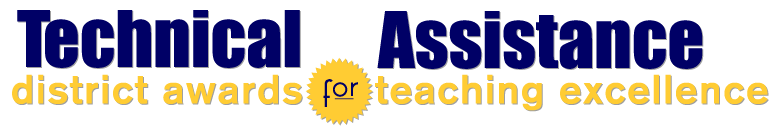
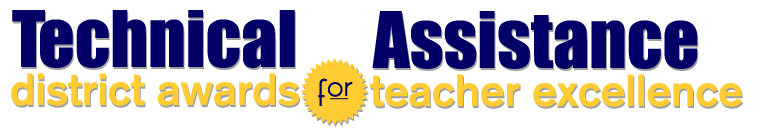
changed out header graphic image to correct typo, added h2 and h3 classes, generally prettied up typography and text layout, changed colors in info_links and changed colors on the contact page

Changed region(s): [[0.0, 0.062, 0.9846, 0.9922]]

diff --git a/css/style.css b/css/style.css
@@ -236,13 +236,9 @@ h1 {
 
 h2 {
 	font-size: 1.4em;
-	padding: 5px;
-	background: #C5C5C5;
-	max-width: 910px;
-	margin-right: 20px;
-	-webkit-border-radius: 6px;
-	-moz-border-radius: 6px;
-	border-radius: 6px;
+	background: none;
+	font-weight: bold;
+	font-family: Frutiger, "Frutiger Linotype", Univers, Calibri, "Gill Sans", "Gill Sans MT", "Myriad Pro", Myriad, "DejaVu Sans Condensed", "Liberation Sans", "Nimbus Sans L", Tahoma, Geneva, "Helvetica Neue", Helvetica, Arial, sans-serif;
 }
 
 h3 {
@@ -322,7 +318,7 @@ h6 {
 }
 
 #info_links {
-	background-color: #F6D565;
+	background-color: #F2F2F2;
 	padding: 5px 0;
 	margin-right: 20px;
 	margin-bottom: 10px;
@@ -340,8 +336,8 @@ h6 {
 #info_links li a {
 	padding: 10px 10px 4px;
 	font-weight: bold;
-	color: #cccccc;
-	color: rgba(0, 0, 0, 0.7);
+	color: #2B477D;
+	color: rgba(43, 71, 125, 0.7);
 	text-shadow: 0 1px 1px rgba(255, 255, 255, 0.5);
 	text-decoration: none;
 	-webkit-border-bottom-left-radius: 6px;
@@ -358,13 +354,17 @@ h6 {
 
 #info_links li a:hover,
 #info_links li a:focus {
-	color: #000066;
-	background: rgba(252, 239, 197, 0.6);
+	color: #2B477D;
+	background-color: #cdcdcd;
+	background: rgba(205,205,205, 1);
+	/*background-color: #FCEFC5;
+	background: rgba(252, 239, 197, 0.6);*/
 }
 
 #info_links .selected a {
-	color: #000066;
-	background: rgba(252, 239, 197, 0.6);
+	color: #2B477D;
+	background-color: #cdcdcd;
+	background: rgba(205,205,205, 1;
 }
 
 /* File Type Icon Styling */
@@ -450,14 +450,14 @@ ul#nav_links {
 	margin: 0 auto;
 	position: relative;
 	overflow: hidden;
-	padding-left: 11px;
+	padding-left: 30px;
 }
 
 ul#nav_links li {
 	-webkit-border-radius: 6px;
 	-moz-border-radius: 6px;
 	border-radius: 6px;
-	margin: 0 10px 0 0;
+	margin: 0 5px 0 0;
 /*	background-color: #2B477D;
 	border: solid 1px #415F9D; */
 	background-color: #3A5E8C;
@@ -582,6 +582,12 @@ ul#nav_links li.selected a:link, ul#nav_links li.selected a:visited {
 	padding-bottom: 10px;
 }
 
+#frontcontent h3 {
+	padding: 10px 5px 0 0;
+	font-size: 1.1em;
+	font-weight: bold;
+}
+
 #maincontent p {
 	padding-bottom: 10px;
 }
@@ -610,6 +616,10 @@ ul#nav_links li.selected a:link, ul#nav_links li.selected a:visited {
 
 /* Front Page Calendar Styling */
 
+ul#events {
+	padding: 0 10px 10px;
+}
+
 #newsandevents p.eventdate {
 	font-weight: bold;
 	padding: 5px 0;
@@ -621,7 +631,7 @@ ul#nav_links li.selected a:link, ul#nav_links li.selected a:visited {
 }
 
 #fullcalendarlink {
-	padding: 10px;
+	padding: 0 10px;
 }
 
 /* Calendar Page Styling */
@@ -722,6 +732,14 @@ table.programsummarytable tbody tr:nth-child(even) {
 	padding-top: 0px;
 }
 
+#generalcontact ul.contactinfofirst {
+	margin-left: 10px;
+}
+
+#generalcontact ul.contactinfolast {
+	margin-left: 0px;
+}
+
 ul.contactinfo {
 	padding: 5px 0;
 }
@@ -778,13 +796,20 @@ ul.contactinfo {
 
 /* Notecard Styling */
 
+li.notecard {
+	color: #000066;
+}
+
 li.notecard h3 {
 /*	font-family: 'Permanent Marker', serif; */
 	font-family: 'Neucha', serif;
 	font-size: 1.4em;
-	color: red;
 	padding-top: 5px;
 	font-weight: bold;	
+}
+
+ul.notecard {
+	overflow: hidden;
 }
 
 li.notecard {
@@ -793,16 +818,22 @@ li.notecard {
 	padding: 0 0 0 5px;
 	width: 205px;
 	height: 205px;
-	border: 1px solid #EFE768;
+	border: 1px solid #2ea39d;
 	position: relative;
 	float: left;
-	background: #EFE768; /* old browsers */
+	/* background colors for old browsers */
+	background: #35beb7; /* post-it samba turquoise */
+	/* background: #EFE768; post-it standard yellow */
+	/* background: faa457; post-it samba orange */
+	/* background: #d189b9;  post-it samba purple */
+	/* background: #f35f6d; post-it samba red */
+	/* background: #cddd73; post-it samba green */
 	box-shadow: 0 1px 4px rgba(0, 0, 0, 0.27), 0 0 40px rgba(0, 0, 0, 0.06) inset;
 	-webkit-box-shadow: 0 1px 4px rgba(0, 0, 0, 0.27), 0 0 60px rgba(0, 0, 0, 0.1) inset;
 	-moz-box-shadow: 0 1px 4px rgba(0, 0, 0, 0.27), 0 0 40px rgba(0, 0, 0, 0.06) inset;
 }
 
-li.notecard li:after { 
+ul.notecard li:after { 
 	z-index: -1; 
 	position: absolute; 
 	background: transparent; 
@@ -819,7 +850,7 @@ li.notecard li:after {
 	-moz-box-shadow: 0 8px 16px rgba(0, 0, 0, 0.3);
 }
 
-li.notecard li:before { 
+ul.notecard li:before { 
 	z-index: -2; 
 	position: absolute; 
 	background: transparent; 

diff --git a/contact.html b/contact.html
@@ -47,28 +47,21 @@
 		<section id="contactpage" class="grid_12">
 			<section id="generalcontact" class="grid_8 alpha">
 			<h2>D.A.T.E. Technical Assistance General Contact Information</h2>
-			<ul class="contactinfo grid_4 alpha">
+			<ul class="contactinfo contactinfofirst grid_4 alpha">
 				<li class="contactnumber"><span class="contacttype">Telephone:</span>(512) 232-2255</li>
 				<li class="contactfax"><span class="contacttype">Fax:</span>(512) 322-3798</li>
 				<li><span class="contacttype">Email:</span><a href="mailto:txeducatorawards@ipsi.utexas.edu">txeducatorawards@ipsi.utexas.edu</a></li>
 			</ul>
-			<ul class="contactinfo grid_4 omega">
+			<ul class="contactinfo contactinfolast grid_4 omega">
 				<li class="strong">Institute for Public School Initiatives</li>
 				<li>220 W. 7th Street, Suite 1.100</li>
 				<li>Austin, Texas 78701</li>
 			</ul>
 			</section>
-			<!--<section class="grid_4 omega">
-			<h2>Technical Assistance Program Partners</h2>
-			<ul class="">
-				<li class=""><img src="images/ipsi-logolg.png"></li>
-				<li class=""><img src="images/tea-logolg.png"></li>
-			</ul>
-			</section>-->
 		<section class="clear"></section>
 		<section id="contactboxes" class="container_12">
 		<h2>Education Service Center Contacts</h2>
-			<ul class="grid_3 alpha">
+			<ul class="grid_3 alpha notecard">
 				<li class="notecard">
 				<h3>Region 1</h3>
 				<ul class="contactinfo">
@@ -115,7 +108,7 @@
 				</ul>
 				</li>
 			</ul>
-			<ul class="grid_3">
+			<ul class="grid_3 notecard">
 				<li class="notecard">
 				<h3>Region 6</h3>
 				<ul class="contactinfo">
@@ -162,7 +155,7 @@
 				</ul>
 				</li>
 			</ul>
-			<ul class="grid_3">
+			<ul class="grid_3 notecard">
 				<li class="notecard">
 				<h3>Region 11</h3>
 				<ul class="contactinfo">
@@ -222,7 +215,7 @@
 				</ul>
 				</li>
 			</ul>
-			<ul class="grid_3 omega">
+			<ul class="grid_3 omega notecard">
 				<li class="notecard">
 				<h3>Region 16</h3>
 				<ul class="contactinfo">

diff --git a/newsletter.html b/newsletter.html
@@ -45,7 +45,6 @@
 		<section class="clear"></section>
 		<section id="newsletterpage" class="grid_12">
 			<h2 class="title">Newsletter</h2>
-				<p class="lesssmalltext"><a href="#1" class="xtrig" rel="coda-slider-1">Back</a></p>
 				<ul>
 					<li><a href="docs/Newsletter/February Newsletter.pdf">February 2011</a></li>
 					<li><a href="docs/Newsletter/January Newsletter.pdf">January 2011</a></li>

diff --git a/index.html b/index.html
@@ -74,7 +74,7 @@
 		</section>
 		<section class="clear"></section>
 		<section id="newsandevents" class="grid_3 padding10top padding20bottom">
-			<h1 class="sansserif">Upcoming Dates</h1>
+			<h2 class="">Upcoming Dates</h2>
 				<ul id="events" class="sansserif">
 					<li>
 						<p class="eventdate">Feb 28, 2011 -- Cycle 1, Yr 3</p>
